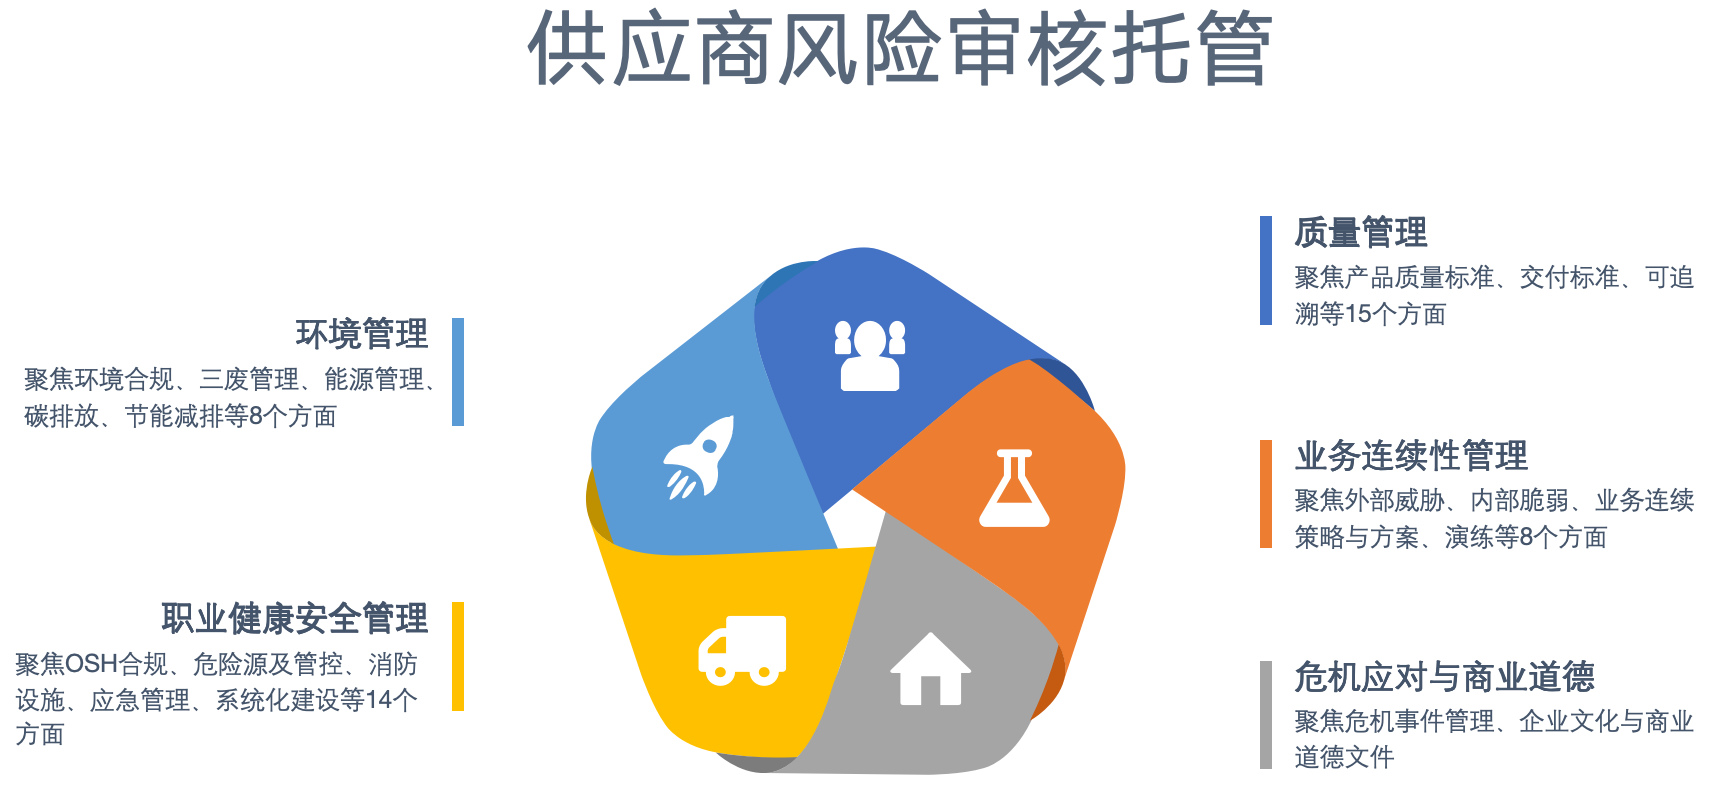
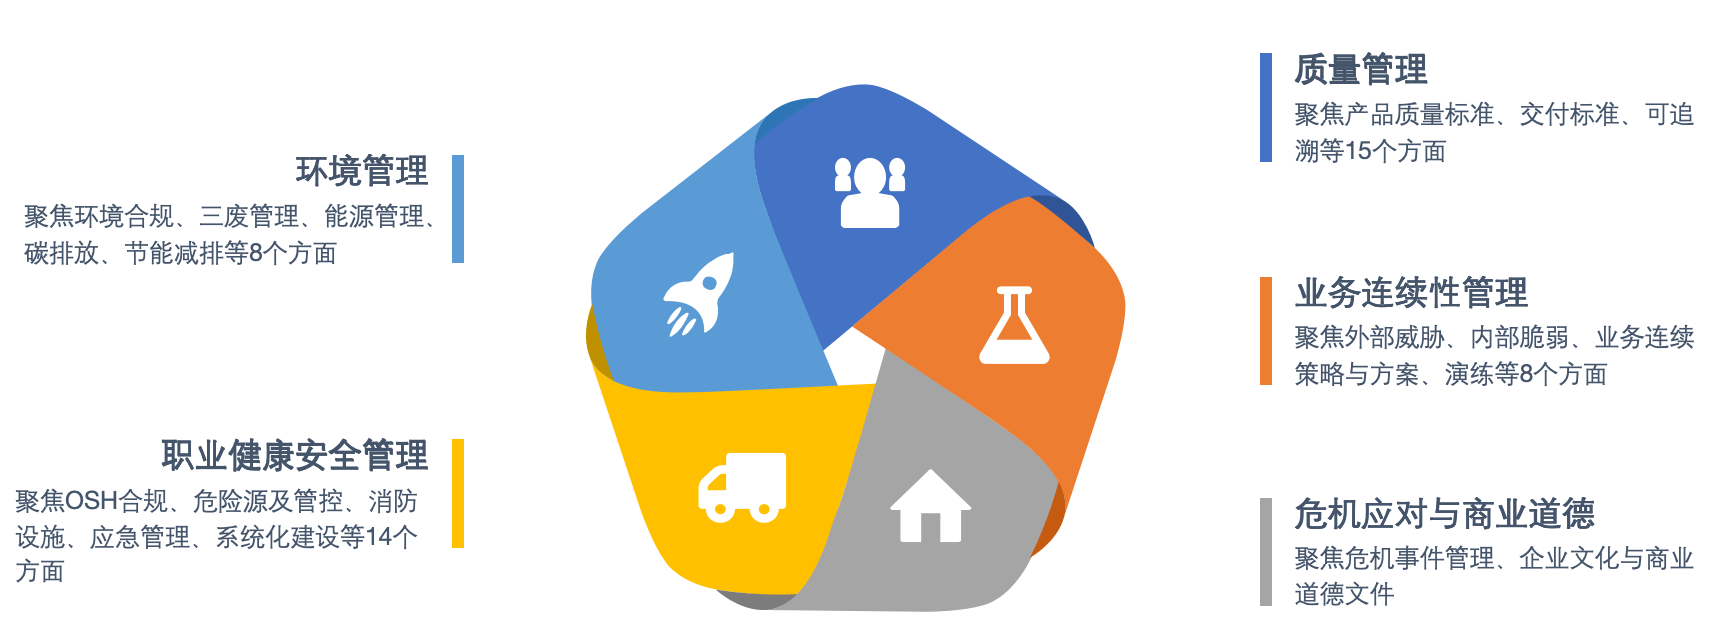
v1

diff --git a/values.html b/values.html
@@ -17,9 +17,13 @@
                 <span class="icon-bar"></span>
                 <span class="icon-bar"></span>
             </button>
-            <div style="font-size: 38px;margin: 6px 30px 0 0; color: #337ab7;">
-            <img src="images/icon.png" width="140" alt="">
-            </div>
+            <div style="margin: 10px 30px 0 0;">
+                <img src="images/icon.png" width="65" style="vertical-align: text-top;" alt="">
+                <p style="font-size: 15px;
+                text-align: center;
+                margin-top: -2px;
+                color: black;">安为尔</p>
+                </div>
         </div>
         <!--导航-->
         <div class="navbar-collapse collapse">
@@ -67,7 +71,9 @@ well-intentioned, brave, respect, and accomplish
             
         </div>
         <div style="margin-bottom: 40px;">
+            <div style="background-color: black;opacity: 0.2;height: 120px;width: 100%;"></div>
             <img src="images/value4.png" style="width: 100%;" alt="">
+            <div style="background-color: black;opacity: 0.2;height: 120px;width: 100%;"></div>
         </div>
 
         <div style="margin-bottom: 40px;text-align: center;">
@@ -75,8 +81,8 @@ well-intentioned, brave, respect, and accomplish
         </div>
 
         <div style="margin-bottom: 40px;text-align: center;">
-            <img src="images/value2.png" style="width: 40%; margin:0 5% 0 0;" alt="">
-            <img src="images/value1.png" style="width: 40%;" alt="">
+            <img src="images/value1.png" style="width: 40%;margin:0 5% 0 0;" alt="">
+            <img src="images/value2.png" style="width: 40%;" alt="">
         </div>
         
 </section>

diff --git a/index.html b/index.html
@@ -211,23 +211,24 @@
     </div>
 </section>
 <!--bootstrap-->
-
-<section id="sec1" style="text-align: center;">
-    <h2 style="margin-bottom: 20px;margin-top: 40px;text-align: center;">咨询与培训</h2>
-    <img src="images/7.png" width="80%" alt="">
-</section>
 <section id="sec2" style="text-align: center;">
     <h2 style="margin-bottom: 20px;margin-top: 40px;text-align: center;">企业发展伙伴</h2>
     <img src="images/services.png" width="80%" alt="">
 </section>
-<section id="sec3" style="text-align: center;margin-top: 80px">
-    <img src="images/6.png" width="80%" alt="">
+<section id="sec1" style="text-align: center;">
+    <h2 style="margin-bottom: 20px;margin-top: 40px;text-align: center;">咨询与培训</h2>
+    <img src="images/7.png" width="80%" alt="">
 </section>
-<section  style="text-align: center;margin-top: 80px;margin-bottom: 40px;">
+
+<section  style="text-align: center;margin-top: 80px;">
     <h2 style="margin-bottom: 20px;margin-top: 80px;text-align: center;">信息化管理平台</h2>
     <img src="images/5.png" width="80%" alt="">
 </section>
 
+<section id="sec3" style="text-align: center;margin-top: 80px;margin-bottom: 40px;">
+    <h2 style="margin-bottom: 20px;margin-top: 40px;text-align: center;">供应商风险审核托管</h2>
+    <img src="images/6.png" width="80%" alt="">
+</section>
 
 
 
